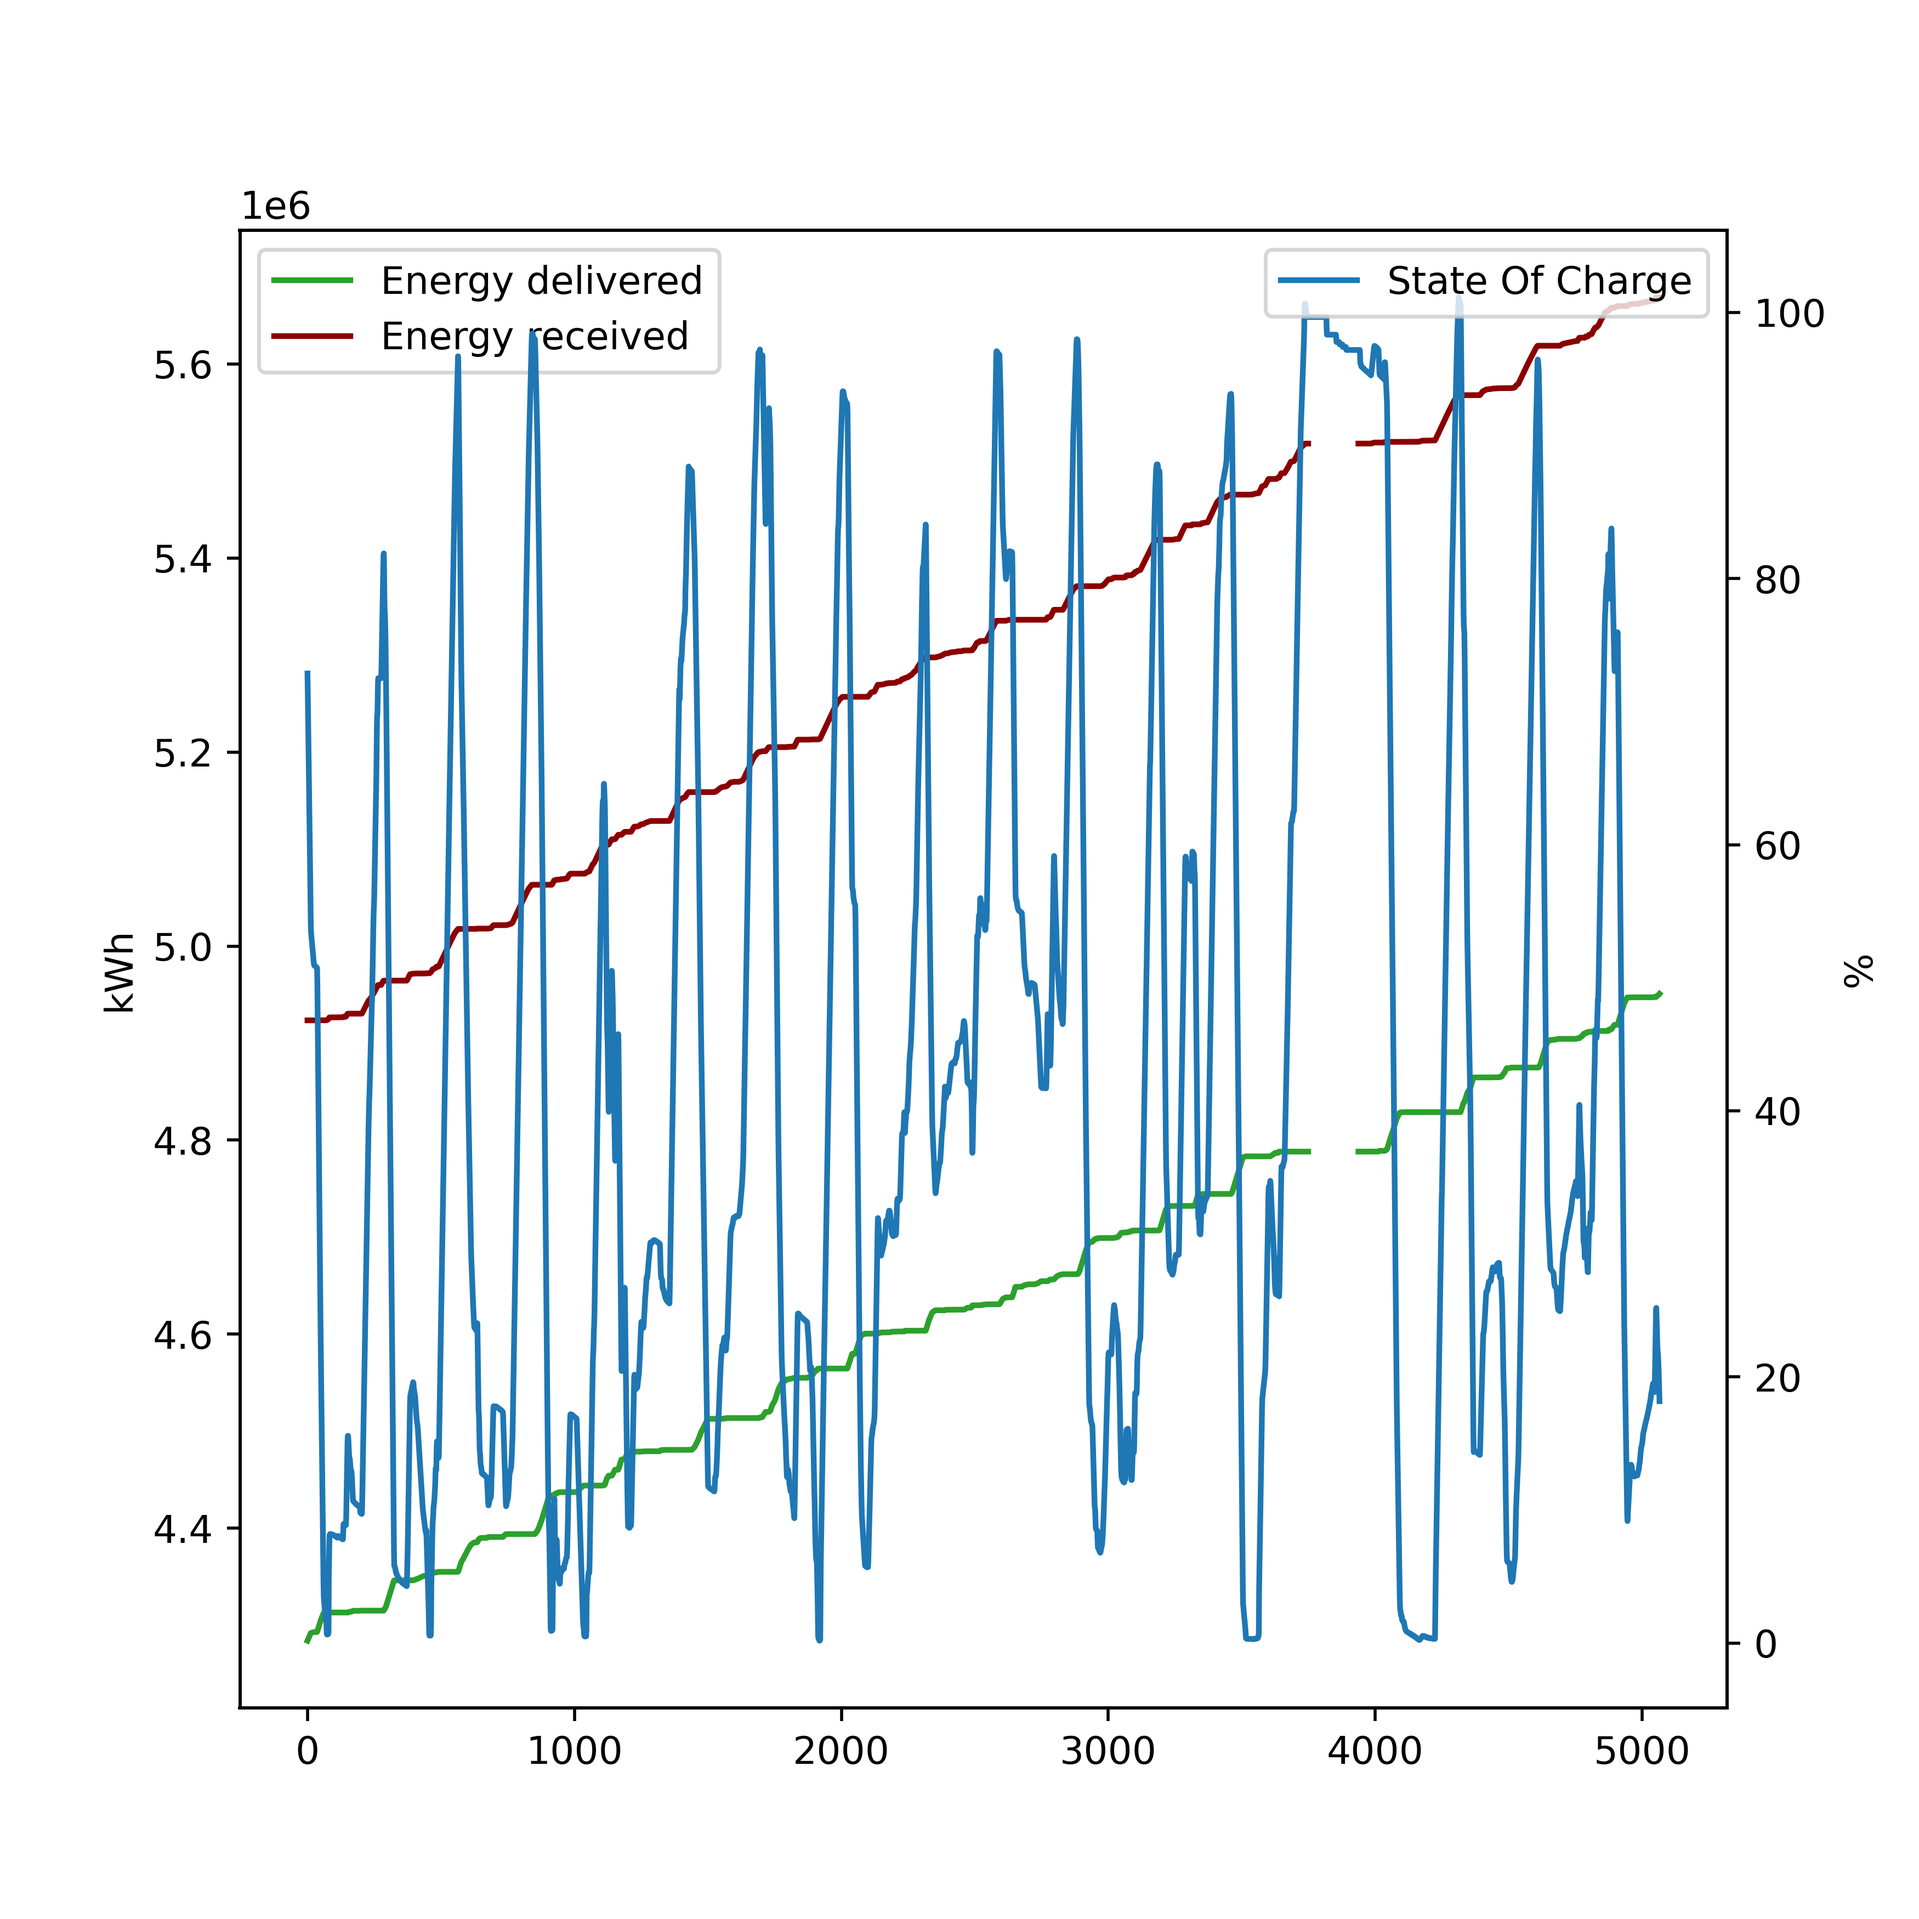
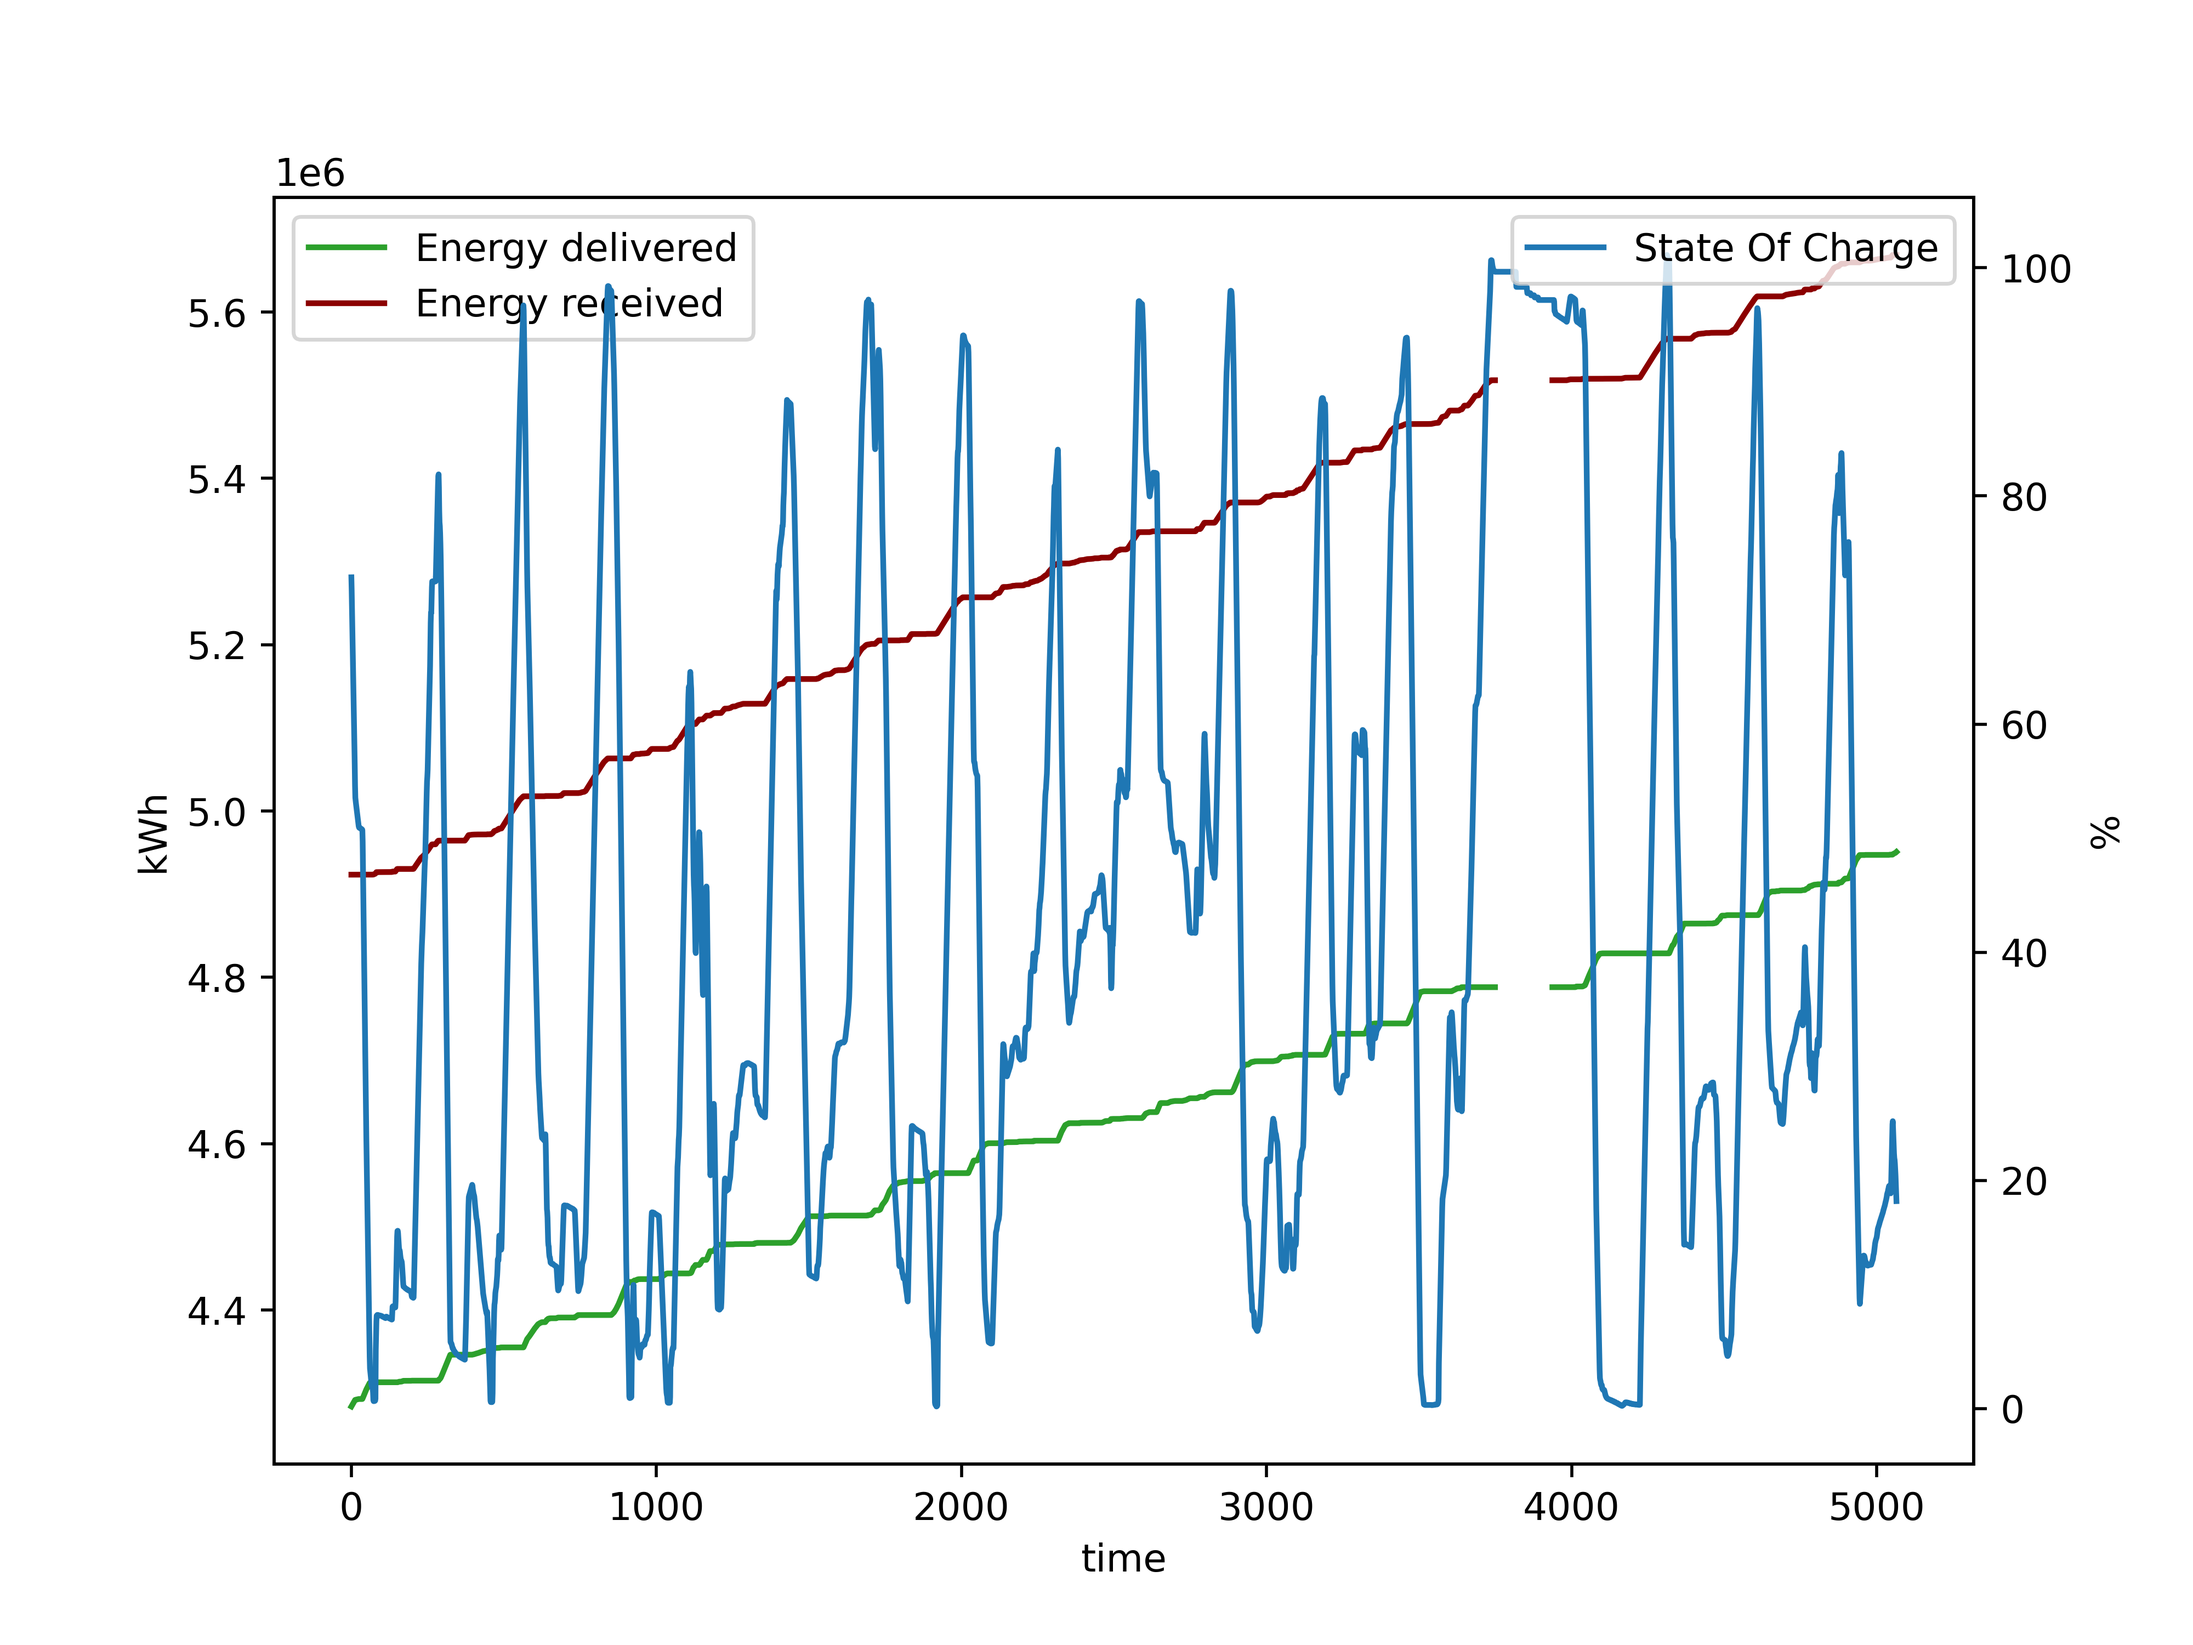
=...

diff --git a/Graphics.py b/Graphics.py
@@ -2,8 +2,31 @@ import pandas as pd
 import Utilities
 import matplotlib.pyplot as plt
 
-def exe():
-    df = pd.read_csv(Utilities.DATASET_FPATH)
+
+
+# def fig_incr_decr():
+#     df = pd.read_csv(Utilities.DATASET_FPATH)
+#     fig = plt.figure(figsize=(8, 6))
+#
+#     ed_ls = df["ENERGY_DELIVERED"].to_list()
+#     x = list(range(len(ed_ls)-1))
+#     er_ls = df["ENERGY_RECEIVED"].to_list()
+#
+#     ed_diffs = [-ed_ls[i]+ ed_ls[i+1] for i in range(0,len(ed_ls)-1)]
+#     er_diffs = [-er_ls[i] + er_ls[i+1] for i in range(0, len(er_ls) - 1)]
+#
+#     fig = plt.figure(figsize=(8, 6))
+#     ax = plt.gca()
+#     ax.set_xlabel("time")
+#     ax.set_ylabel("kWh")
+#     plt.plot(x, ed_diffs, label="Δ Energy delivered", color="tab:green")
+#     plt.plot(x, er_diffs, label="Δ Energy received", color="darkred")
+#
+#     plt.savefig(Utilities.FIGURE2_DETA_FPATH, dpi=500)
+#     fig.show()
+
+
+def fig_dataset():
 
     # The data
     # Timestamp: The date and time of the measurement.
@@ -11,33 +34,21 @@ def exe():
     # Energy Delivered: The energy (in kWh) delivered to the power grid, taken from the battery when it is being discharged
     # SOC (State Of Charge): State of Charge of the battery. 0% when empty, 100% when fully charged.
     # This value is average over the measured period, in this case it is average over 5-mins interval.
+    # Observation: missing values are nan
 
-    # preliminary check: data columns
-    fig, ax = plt.subplots()
-    y1 = df["ENERGY_DELIVERED"].to_list()
-    x = list(range(len(y1)))
-    y2 = df["ENERGY_RECEIVED"].to_list()
-    y3 = df["SOC"].to_list()
-    # plt.plot(x,y1, label="Energy delivered")
-    # plt.plot(x,y2, label="Energy received")
-    # ax.legend()
-    # fig.show()
-    #
-    # fig, ax = plt.subplots()
-    # plt.plot(x, y3, label="State Of Charge")
-    # ax.legend()
-    # fig.show()
+    y1_ed, y2_er, y3_soc = Utilities.get_data()
+    x = list(range(len(y1_ed)))
 
-    fig = plt.figure(figsize=(7,7))
+    fig = plt.figure(figsize=(8,6))
     ax = plt.gca()
-    ax.set_label("timestamp")
+    ax.set_xlabel("time")
     ax.set_ylabel("kWh")
-    plt.plot(x, y1, label="Energy delivered", color="tab:green")
-    plt.plot(x, y2, label="Energy received", color="darkred")
+    plt.plot(x, y1_ed, label="Energy delivered", color="tab:green")
+    plt.plot(x, y2_er, label="Energy received", color="darkred")
 
     ax2 = ax.twinx()
     ax2.set_ylabel("%")
-    ax2.plot(x, y3, label="State Of Charge")
+    ax2.plot(x, y3_soc, label="State Of Charge")
     ax.legend(loc=0)
     ax2.legend(loc=1)
 

diff --git a/Utilities.py b/Utilities.py
@@ -8,6 +8,7 @@ import os
 
 DATASET_FPATH = "BESS_op_data.csv"
 FIGURE1_FPATH = "figure_dataset.png"
+FIGURE2_DETA_FPATH = "figure_deltas.png"
 
 # Invoked to write a message to a text logfile and also print it
 def init_logging(logfilename, loglevel=logging.INFO):
@@ -25,4 +26,14 @@ def init_logging(logfilename, loglevel=logging.INFO):
 def round_list_elems(ls, precision=2):
     rounded_ls = [round(elem, precision) for elem in ls]
     return rounded_ls
+
+
+# Always identical -> refactoring
+def get_data():
+    df = pd.read_csv(DATASET_FPATH)
+    y1_ed = df["ENERGY_DELIVERED"].to_list()
+    y2_er = df["ENERGY_RECEIVED"].to_list()
+    y3_soc = df["SOC"].to_list()
+
+    return y1_ed, y2_er, y3_soc
 

diff --git a/rte.py b/rte.py
@@ -1,5 +1,14 @@
 import pandas as pd
 import Utilities
 
+
+# Assumptions to verify:
+# 1) When the State Of Charge is decreasing, Energy delivered increases and Energy received does not change
+# 2) When the State Of Charge is increasing, Energy received increases and Energy delivered does not change
+# These requirements are not considered when dealing with missing (nan) values
+def check_assumptions():
+    df = pd.read_csv(Utilities.DATASET_FPATH)
+
+
 def exe():
     df = pd.read_csv(Utilities.DATASET_FPATH)
